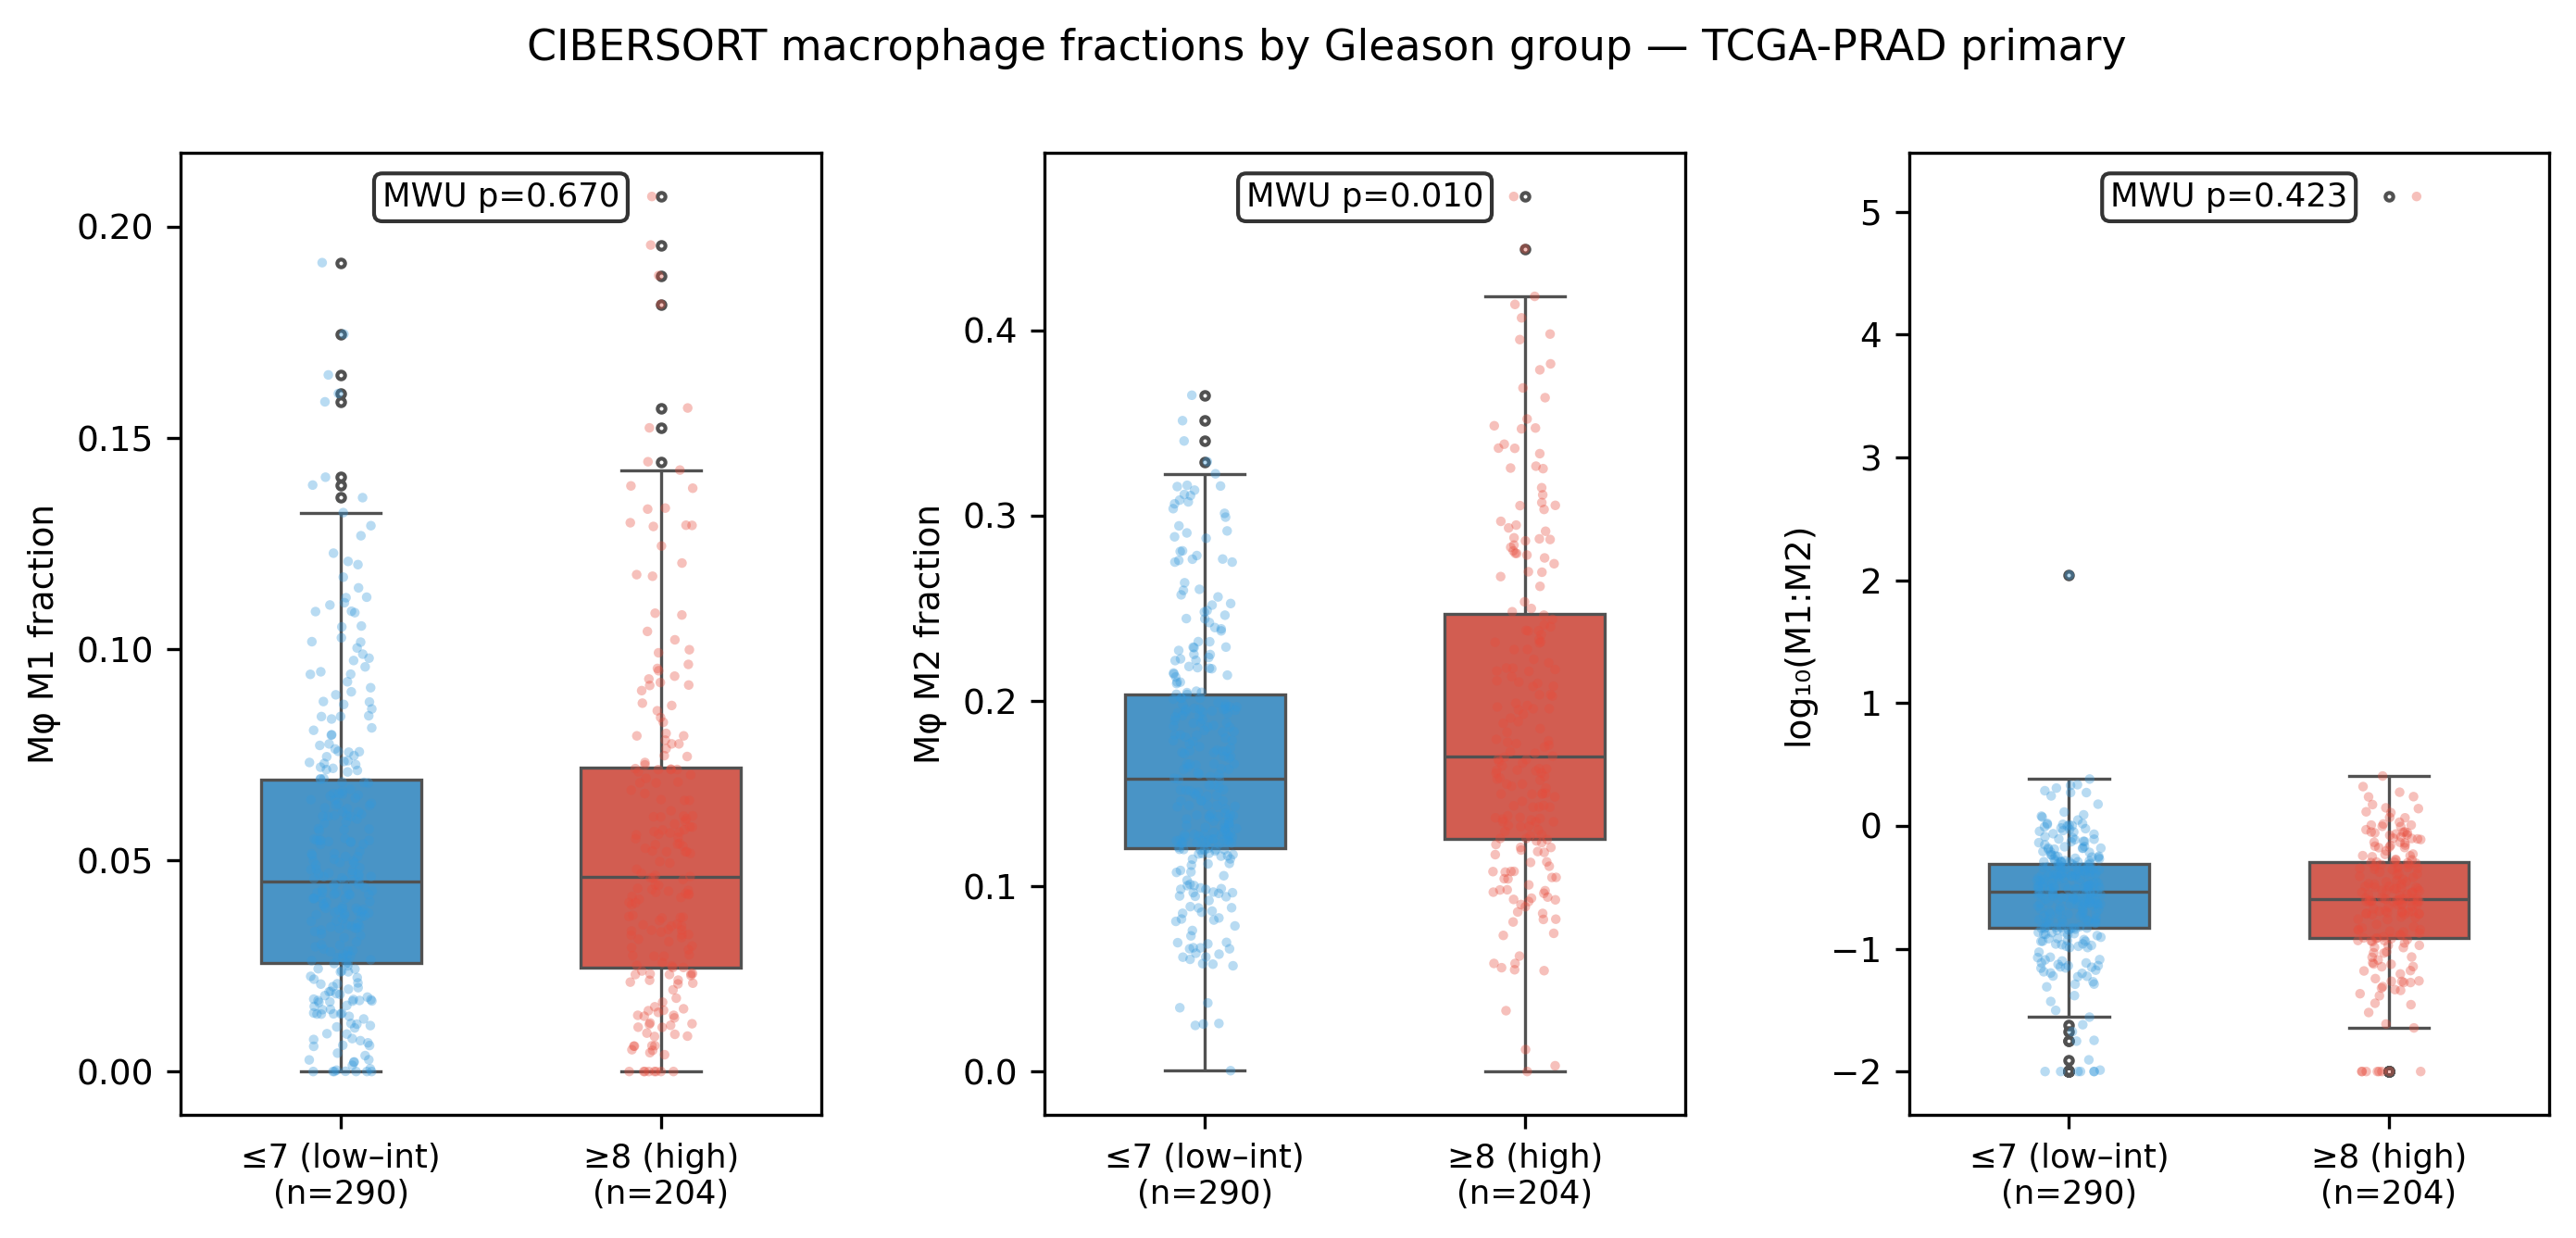
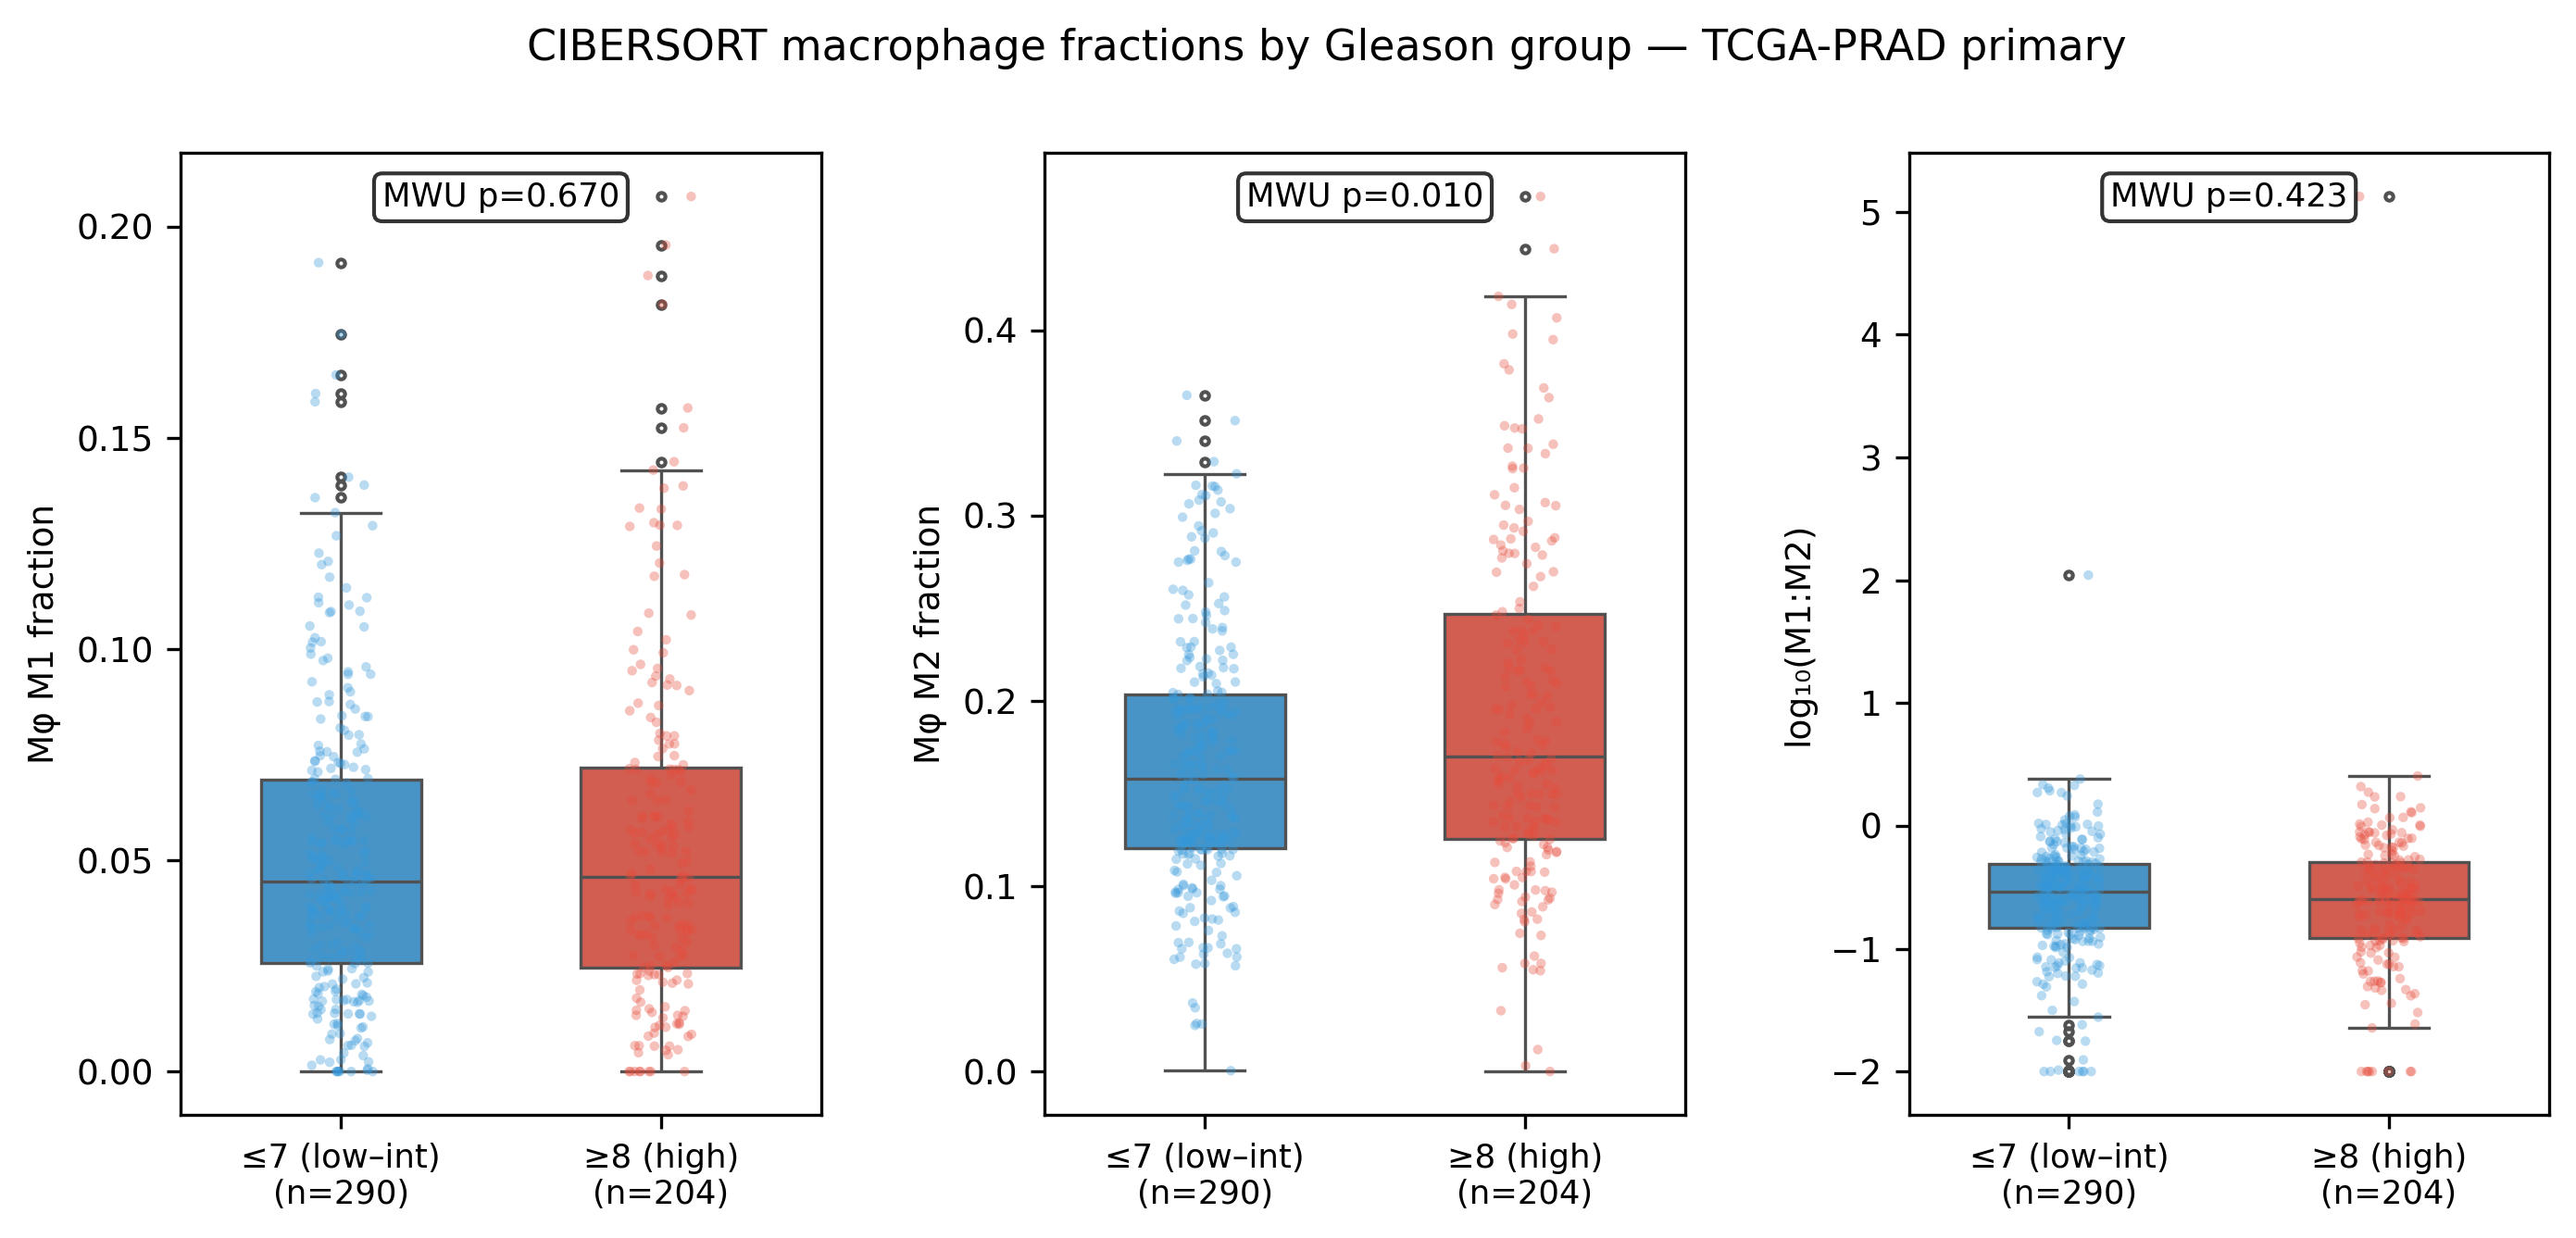
Commit pending config, README, gitignore, and figure updates

diff --git a/m6a/config.py b/m6a/config.py
@@ -49,12 +49,14 @@ TCGA_CLINICAL       = os.path.join(TCGA_DIR,        'clinical.csv')
 TCGA_NORMAL_LOG2CPM = os.path.join(TCGA_NORMAL_DIR, 'expression_log2cpm.tsv')
 
 # ── Output directories ────────────────────────────────────────────────────────
-OUTDIR_CROSS_COHORT = os.path.join(_HERE, 'plots_cross_cohort')
-OUTDIR_MCRPC        = os.path.join(_HERE, 'plots_mcrpc')
-OUTDIR_PRESENTATION = os.path.join(_HERE, 'plots_presentation')
-OUTDIR_AR_M6A         = os.path.join(_HERE, 'plots_ar_m6a')
-OUTDIR_AR_CROSSCOHORT = os.path.join(_HERE, 'plots_ar_crosscohort')
-OUTDIR_AR_SUMMARY     = os.path.join(_HERE, 'plots_ar_m6a_summary')
+RESULTS_DIR           = os.path.join(_HERE, 'results')
+OUTDIR_MCRPC          = os.path.join(RESULTS_DIR, 'figures', 'mcrpc')
+OUTDIR_CROSS_COHORT   = os.path.join(RESULTS_DIR, 'figures', 'cross_cohort')
+OUTDIR_AR_M6A         = os.path.join(RESULTS_DIR, 'figures', 'ar_m6a')
+OUTDIR_AR_CROSSCOHORT = os.path.join(RESULTS_DIR, 'figures', 'ar_crosscohort')
+OUTDIR_AR_SUMMARY     = os.path.join(RESULTS_DIR, 'figures', 'ar_summary')
+OUTDIR_TCGA_IMMUNE    = os.path.join(RESULTS_DIR, 'figures', 'tcga_immune')
+OUTDIR_TABLES         = os.path.join(RESULTS_DIR, 'tables')
 
 # ── Cross-cohort group definitions (6 cohorts, in progression order) ─────────
 GROUP_LABELS = [

diff --git a/README.md b/README.md
@@ -13,46 +13,52 @@ from normal prostate through to metastatic castration-resistant disease
 (mCRPC) — and that this reprogramming is mechanistically coupled to AR
 transcriptional activity, particularly via the RBM15/RBM15B writer paralog axis.
 
-Six coordinated analyses are implemented:
-
-| Script | Question | Output |
-|--------|----------|--------|
-| `mcrpc_analysis.py` | Three-axis m6A model in mCRPC; LR weight derivation | `plots_mcrpc/` |
-| `cross_cohort.py` | m6A trajectory across 6 disease stages (Normal → mCRPC-SCNC) | `plots_cross_cohort/` |
-| `ar_m6a_analysis.py` | AR × m6A coupling mechanism in mCRPC + TCGA validation | `plots_ar_m6a/` |
-| `ar_crosscohort_analysis.py` | AR Activity Score trajectory across disease stages | `plots_ar_crosscohort/` |
-| `ar_m6a_summary_figures.py` | Publication-ready AR × m6A summary panels | `plots_ar_m6a_summary/` |
-| `tcga_immune_m6a.py` | m6A writers × CIBERSORT immune fractions; RBM15B × ARS (TCGA) | `plots_tcga_immune/` |
-
 ---
 
 ## Project structure
 
 ```
 bulk_rnaseq/
-├── m6a/                        # Shared library (import as `from m6a.xxx import ...`)
-│   ├── __init__.py             # Package docstring and module index
+│
+├── m6a/                        # Shared Python library
 │   ├── config.py               # Data paths and output directories
-│   ├── genes.py                # m6A gene sets + AR target gene panel
+│   │                           # (set M6A_DATA_ROOT env var to override)
+│   ├── genes.py                # m6A gene sets + AR target gene panel (with sources)
 │   ├── normalization.py        # Percentile-rank and z-score normalization
-│   ├── scoring.py              # Three-axis score computation + LR weights
+│   ├── scoring.py              # Three-axis scoring + pre-computed LR weights
 │   ├── stats.py                # BH-FDR, Dunn post-hoc, rank-biserial, sig/fmt_p
 │   ├── plotting.py             # Violin-plot helpers
-│   └── data/
-│       ├── __init__.py         # Subpackage docs and contribution guide
-│       └── loaders.py          # Per-cohort data loaders
+│   └── data/loaders.py         # Per-cohort data loaders
 │
-├── cross_cohort.py
-├── mcrpc_analysis.py
-├── ar_m6a_analysis.py
-├── ar_crosscohort_analysis.py
-├── ar_m6a_summary_figures.py
-├── tcga_immune_m6a.py
-├── extract_mhspc_m6a.R         # R script for mHSPC microarray extraction
-├── download_tcga_normals.py    # Utility: download TCGA adjacent normals
+├── scripts/                    # Analysis scripts (run from project root)
+│   ├── mcrpc_analysis.py       # mCRPC 3-axis model; LR weight derivation
+│   ├── cross_cohort.py         # m6A trajectory: Normal → mCRPC-SCNC (6 groups)
+│   ├── ar_m6a_analysis.py      # AR × m6A coordination: mCRPC + TCGA validation
+│   ├── ar_crosscohort_analysis.py  # AR Activity Score trajectory across stages
+│   ├── ar_m6a_summary_figures.py   # Publication-ready AR × m6A panels
+│   ├── tcga_immune_m6a.py      # m6A × CIBERSORT immune + RBM15B × ARS (TCGA)
+│   ├── extract_mhspc_m6a.R     # R: extract mHSPC microarray expression
+│   └── download_tcga_normals.py    # Utility: download TCGA adjacent normals
 │
-├── environment.yml             # Reproducible conda/micromamba environment
-└── plots_*/                    # Generated output directories (one per script)
+├── results/
+│   ├── figures/
+│   │   ├── mcrpc/              # ← mcrpc_analysis.py output
+│   │   ├── cross_cohort/       # ← cross_cohort.py output
+│   │   ├── ar_m6a/             # ← ar_m6a_analysis.py output
+│   │   ├── ar_crosscohort/     # ← ar_crosscohort_analysis.py output
+│   │   ├── ar_summary/         # ← ar_m6a_summary_figures.py output
+│   │   └── tcga_immune/        # ← tcga_immune_m6a.py output
+│   ├── tables/                 # CSV outputs (correlation summaries, etc.)
+│   └── logs/                   # Run logs (gitignored)
+│
+├── envs/
+│   └── merip.yml               # Reproducible conda/micromamba environment
+│
+├── data/                       # Placeholder structure — actual data NOT committed
+│   ├── raw/                    # (gitignored)
+│   └── processed/              # (gitignored)
+│
+└── README.md
 ```
 
 ---
@@ -60,12 +66,12 @@ bulk_rnaseq/
 ## Data requirements
 
 Raw and processed data are **not included** in this repository (access-controlled
-or large files).  All paths resolve relative to a configurable data root.
+or large files). All paths resolve relative to a configurable data root.
 
 ### Setting the data root
 
-By default the code looks for data at `/mnt/biodata/data` (the lab NAS mount).
-Override this with an environment variable — **no code changes needed**:
+By default the code looks for data at `/mnt/biodata/data` (the lab NAS).
+Override without editing any code:
 
 ```bash
 export M6A_DATA_ROOT=/path/to/your/data
@@ -83,20 +89,15 @@ export M6A_DATA_ROOT=/path/to/your/data
 | DARANA (GSE197780) | `processed/darana_gse197780/` | GEO open access |
 | CIBERSORT fractions | `processed/tcga_prad/TCGA.Kallisto.fullIDs.cibersort.relative.tsv` | Open — Thorsson et al. 2018 |
 
-> **mHSPC microarray** (Davicioni collaboration): `processed/mhspc_array/` —
-> populate when files are received. Run `extract_mhspc_m6a.R` first to generate
-> the full-genome expression matrix.
-
 ---
 
 ## Setup
 
 ```bash
-# Create the environment
-micromamba create -f environment.yml
+micromamba create -f envs/merip.yml
 micromamba activate rnaseq
 
-# (Optional) set data root if different from /mnt/biodata/data
+# Optional: point to a different data root
 export M6A_DATA_ROOT=/your/data/path
 ```
 
@@ -104,35 +105,36 @@ export M6A_DATA_ROOT=/your/data/path
 
 ## Running the analyses
 
-Each script is self-contained and can be run independently.  The recommended
-order below mirrors the narrative progression of the project:
+Each script is self-contained. Recommended order mirrors the narrative arc:
 
 ```bash
-# 1. mCRPC intra-cohort model (~5 min)
-micromamba run -n rnaseq python mcrpc_analysis.py
+# 1. mCRPC intra-cohort model and LR weight derivation (~5 min)
+micromamba run -n rnaseq python scripts/mcrpc_analysis.py
 
-# 2. Cross-cohort m6A trajectory (~3 min)
-micromamba run -n rnaseq python cross_cohort.py
+# 2. Cross-cohort m6A disease-progression trajectory (~3 min)
+micromamba run -n rnaseq python scripts/cross_cohort.py
 
-# 3. AR × m6A mechanism in mCRPC + TCGA validation (~10 min)
-micromamba run -n rnaseq python ar_m6a_analysis.py
+# 3. AR × m6A coordination mechanism in mCRPC + TCGA validation (~10 min)
+micromamba run -n rnaseq python scripts/ar_m6a_analysis.py
 
-# 4. AR Activity Score cross-cohort trajectory (~5 min)
-micromamba run -n rnaseq python ar_crosscohort_analysis.py
+# 4. AR Activity Score trajectory across disease stages (~5 min)
+micromamba run -n rnaseq python scripts/ar_crosscohort_analysis.py
 
 # 5. Publication summary figures (~5 min)
-micromamba run -n rnaseq python ar_m6a_summary_figures.py
+micromamba run -n rnaseq python scripts/ar_m6a_summary_figures.py
 
 # 6. Immune landscape: m6A × CIBERSORT + RBM15B × ARS in TCGA (~3 min)
-micromamba run -n rnaseq python tcga_immune_m6a.py
+micromamba run -n rnaseq python scripts/tcga_immune_m6a.py
 ```
+
+All output goes to `results/figures/<analysis>/` and `results/tables/`.
 
 ---
 
 ## The m6A scoring model
 
-Three composite scores are computed from within-sample percentile-rank
-normalized expression of 22 m6A regulatory genes:
+Three composite scores computed from within-sample percentile-rank normalized
+expression of 22 m6A regulatory genes:
 
 | Score | Formula |
 |-------|---------|
@@ -141,8 +143,8 @@ normalized expression of 22 m6A regulatory genes:
 | **Functional Impact** | 0.435 × Net Deposition + 0.565 × Oncogenic Readout |
 
 LR writer weights were trained on the mCRPC cohort (59 SCNC vs 575 Adeno,
-L2 logistic regression, 5-fold CV AUC = 0.793).  The Functional Impact axis
-combination weights are Stage-2 LR values.  See `m6a/scoring.py` for details.
+L2 logistic regression, 5-fold CV AUC = 0.793). See `m6a/scoring.py` for
+weight values and `scripts/mcrpc_analysis.py` Part I for the derivation.
 
 ---
 
@@ -150,7 +152,6 @@ combination weights are Stage-2 LR values.  See `m6a/scoring.py` for details.
 
 - Thorsson et al. (2018) *Immunity* 48:812 — CIBERSORT pan-cancer immune landscape
 - Barbie et al. (2009) *Nature* 462:108 — ssGSEA (percentile-rank normalization)
-- Robinson et al. (2010) *Bioinformatics* — edgeR, log2-CPM normalization
 - Massie et al. (2011) *Nature* 474:467 — CAMKK2 as direct AR target
 - Linder et al. (2022) *Cancer Discov* — DARANA enzalutamide trial (GSE197780)
 